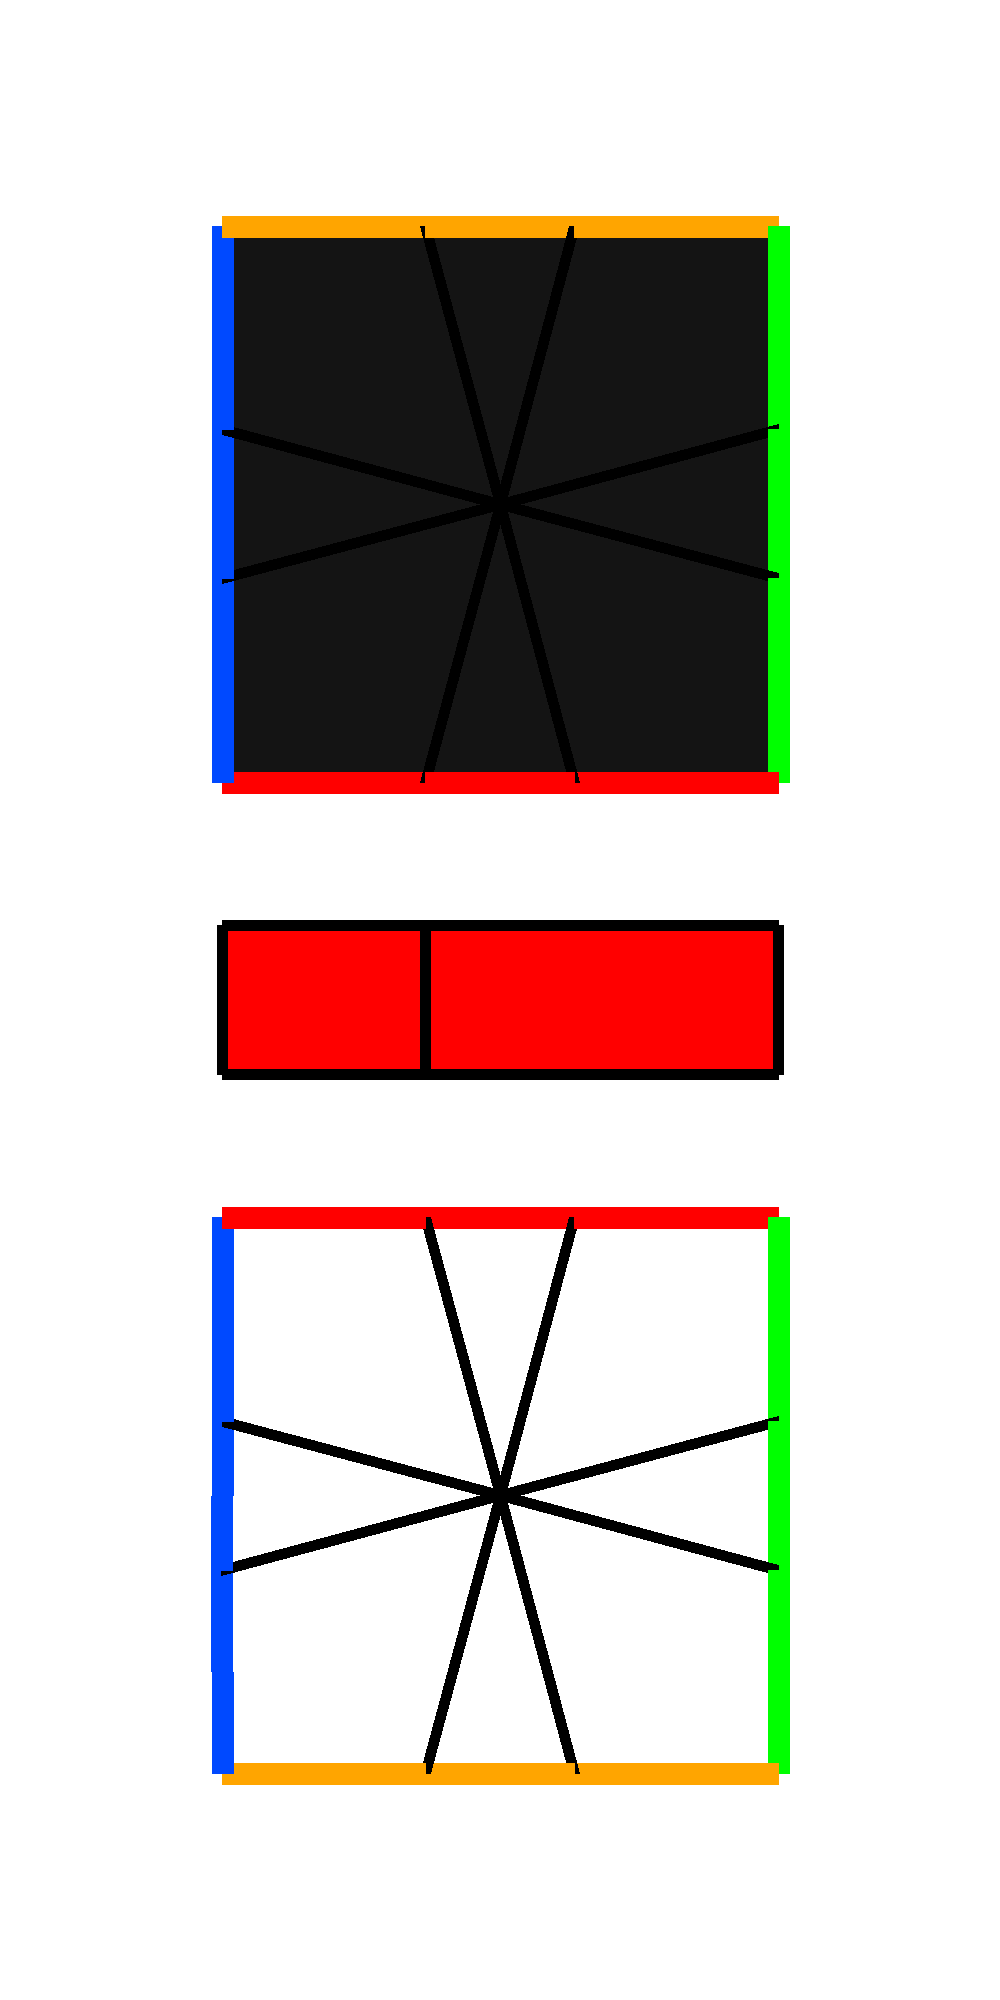
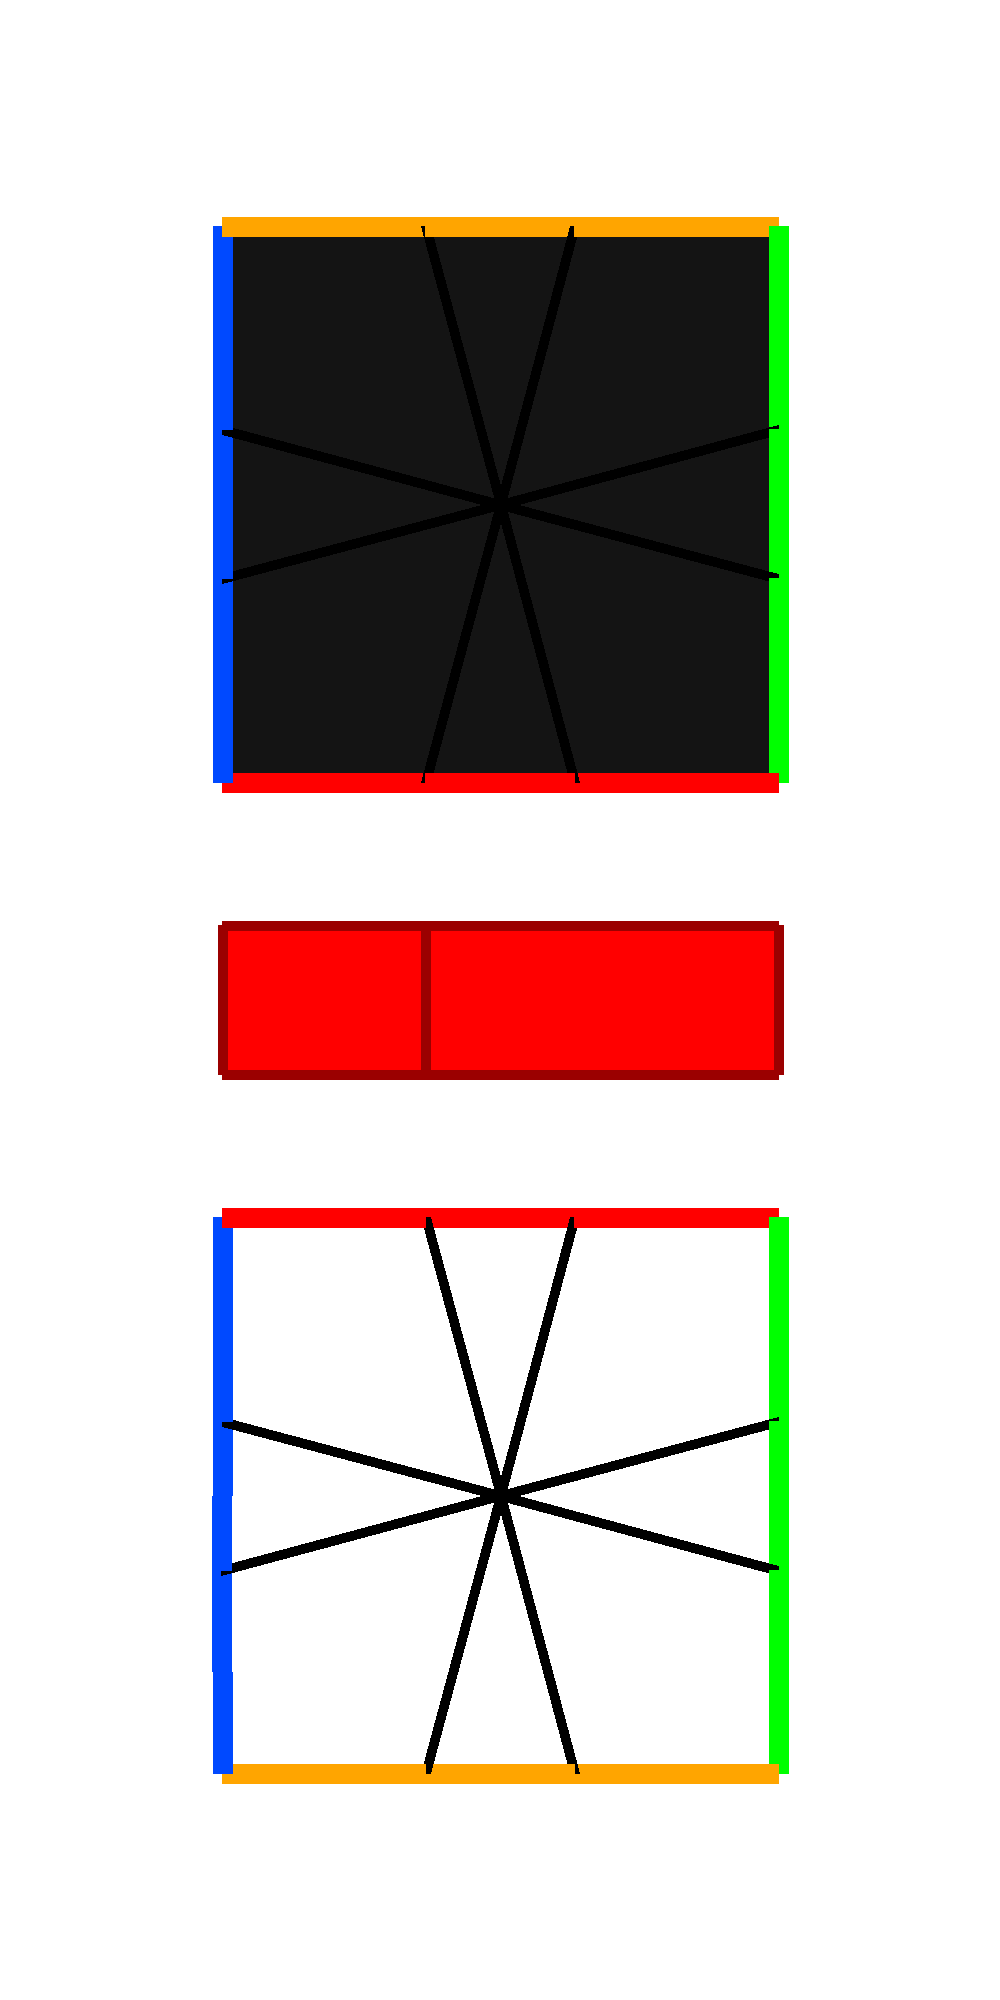
update equator border
i need to figure out how to make advanced settings hidden but for now ill just have em out and about

Changed region(s): [[0.217, 0.434, 0.806, 0.558]]

diff --git a/sq1_img_gen/sq1_img_gen.py b/sq1_img_gen/sq1_img_gen.py
@@ -11,13 +11,11 @@ class FormState(rx.State):
     e_layer: bool = True
     d_layer: bool = True
     img_src: str = "/image.png"
-    loading: bool = False
 
     def reload_image(self, src):
         self.img_src = src
 
     async def handle_submit(self, form_data: dict):
-        self.loading = True
 
         new_img_src = f"/image_v_{int(time.time())}.png"
         generate_image(form_data, 1000, new_img_src)
@@ -29,8 +27,6 @@ class FormState(rx.State):
         await asyncio.sleep(1)
 
         os.remove("assets"+new_img_src)
-
-        self.loading = False
 
     def change_U(self):
         self.u_layer = not self.u_layer
@@ -78,7 +74,7 @@ def index():
                                             ),
 
                                             side="right",
-                                            align="center"
+                                            align="center",
                                         ),
                                     ),
                                 ),
@@ -125,22 +121,9 @@ def index():
                                         rx.text("Do not include bottom layer"),
                                     ),
                                 ),
-                                rx.accordion.root(  # probably replace this with something else, i want to avoid fix_arrow.css (ideally)
-                                    rx.accordion.item(
-                                        header="Advanced Settings",
-                                        content=rx.center(
-                                            rx.text("you'll eventually be able to edit color scheme, number pieces, other stuff"),
-
-                                            color=rx.color_mode_cond(light="#000000", dark="#FFFFFF"),
-                                        ),
-                                    ),
-
-                                    collapsible=True,
-                                    variant="ghost",
-                                ),
                                 rx.cond(
                                     FormState.u_layer | FormState.e_layer | FormState.d_layer,
-                                    rx.button(rx.icon("image"), "Generate", type="submit", margin_top="20px", size="3", loading=FormState.loading),
+                                    rx.button(rx.icon("image"), "Generate", type="submit", margin_top="20px", size="3"),
                                     rx.button(rx.icon("image"), "Generate", margin_top="20px", size="3", disabled=True, variant="outline"),
                                 ),
                             ),
@@ -155,7 +138,7 @@ def index():
 
             rx.vstack(
                 rx.heading("Output"),
-                rx.image(src=FormState.img_src, width="200px", height="auto", loading=FormState.loading),
+                rx.image(src=FormState.img_src, width="200px", height="auto"),
             ),
         ),
 

diff --git a/modules/img_genner.py b/modules/img_genner.py
@@ -9,6 +9,18 @@ def center(vector, new_center):
     return [new_center[0]+vector[0], new_center[1]+vector[1]]
 
 
+def darken(color):
+    darkening_attempt = [i-100 for i in color]
+    actually_darkened_color = []
+
+    for value in darkening_attempt:
+        if value < 0:
+            actually_darkened_color.append(0)
+        else:
+            actually_darkened_color.append(value)
+
+    return actually_darkened_color
+
 def generate_image(form_data, img_width, path_to_save_to):
     """Generate Square-1 image using `form_data`."""
     squan = Square1()
@@ -47,7 +59,7 @@ def generate_image(form_data, img_width, path_to_save_to):
     top_center_coord = [center_coord[0], padding+half_diag_length]
     bottom_center_coord = [center_coord[0], img_height-(padding+half_diag_length)]
 
-    border_thickness = int((1/90)*img_width)
+    border_thickness = int((1/100)*img_width)
 
     edge_vector = pg.math.Vector2(-half_edge_length, piece_height)
     half_diag_vector = pg.math.Vector2(-cube_side_length/2, cube_side_length/2)
@@ -153,12 +165,17 @@ def generate_image(form_data, img_width, path_to_save_to):
     if form_data["scheme"] != "Normal":
         left_eq_color = shape_color
         right_eq_color = shape_color
+        left_border_color = border_color
+        right_border_color = border_color
     else:
         left_eq_color = front_color
+        left_border_color = front_color
         right_eq_color = front_color
+        right_border_color = front_color
 
         if squan.equator_flipped:
             right_eq_color = back_color
+            right_border_color = back_color
 
     pg.draw.polygon(
         window,
@@ -172,7 +189,7 @@ def generate_image(form_data, img_width, path_to_save_to):
     )
     pg.draw.polygon(
         window,
-        border_color,
+        darken(left_border_color),
         [
             (center_coord[0]-half_edge_length, center_coord[1]-half_edge_length),
             (center_coord[0]-half_edge_length, center_coord[1]+half_edge_length),
@@ -195,7 +212,7 @@ def generate_image(form_data, img_width, path_to_save_to):
         )
         pg.draw.polygon(
             window,
-            border_color,
+            darken(right_border_color),
             [
                 (center_coord[0]-half_edge_length, center_coord[1]-half_edge_length),
                 (center_coord[0]-half_edge_length, center_coord[1]+half_edge_length),
@@ -217,7 +234,7 @@ def generate_image(form_data, img_width, path_to_save_to):
         )
         pg.draw.polygon(
             window,
-            border_color,
+            darken(right_border_color),
             [
                 (center_coord[0]-half_edge_length, center_coord[1]-half_edge_length),
                 (center_coord[0]-half_edge_length, center_coord[1]+half_edge_length),
